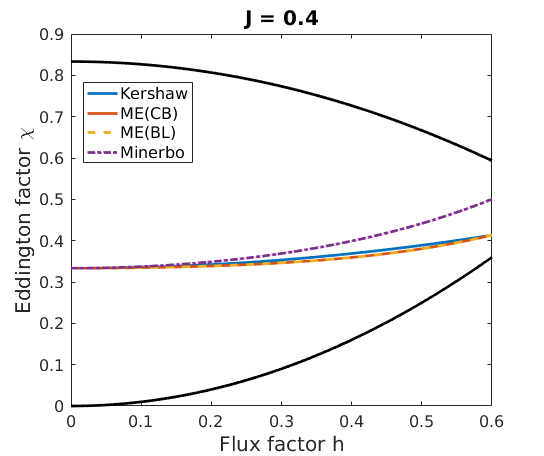
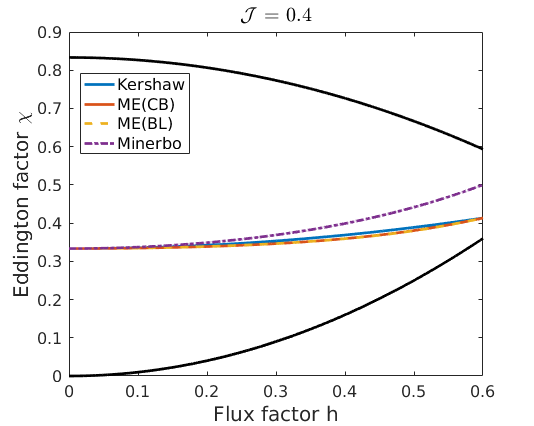
Changed the titles format.

diff --git a/Documents/M1/realizableFermionicM1/figures/plotDifferentClosure.m b/Documents/M1/realizableFermionicM1/figures/plotDifferentClosure.m
@@ -6,7 +6,7 @@ theta_MECB = @(x) x.*x.*(3-x+3.*x.*x)./5;
 theta_MEBL = @(x) (9.*x.*x-5+sqrt(33.*x.^4 - 42.*x.*x+25))/8;
 
 nPts = 1024;
-J = 0.6;
+J = 0.4;
 h = linspace(0.0,1.0 - J,nPts);
 
 Kershaw = zeros(nPts,1);
@@ -36,7 +36,7 @@ xlim([0,1-J]);
 set(gca,'FontSize',12)
 xlabel('Flux factor h','FontSize',15);
 ylabel('Eddington factor \chi','FontSize',15);
-title(['J = ',num2str(J)],'FontSize',15);
+title(['$\mathcal{J}$ = ',num2str(J)],'Interpreter','LaTeX','FontSize',15);
 
 x0=10;
 y0=5;
